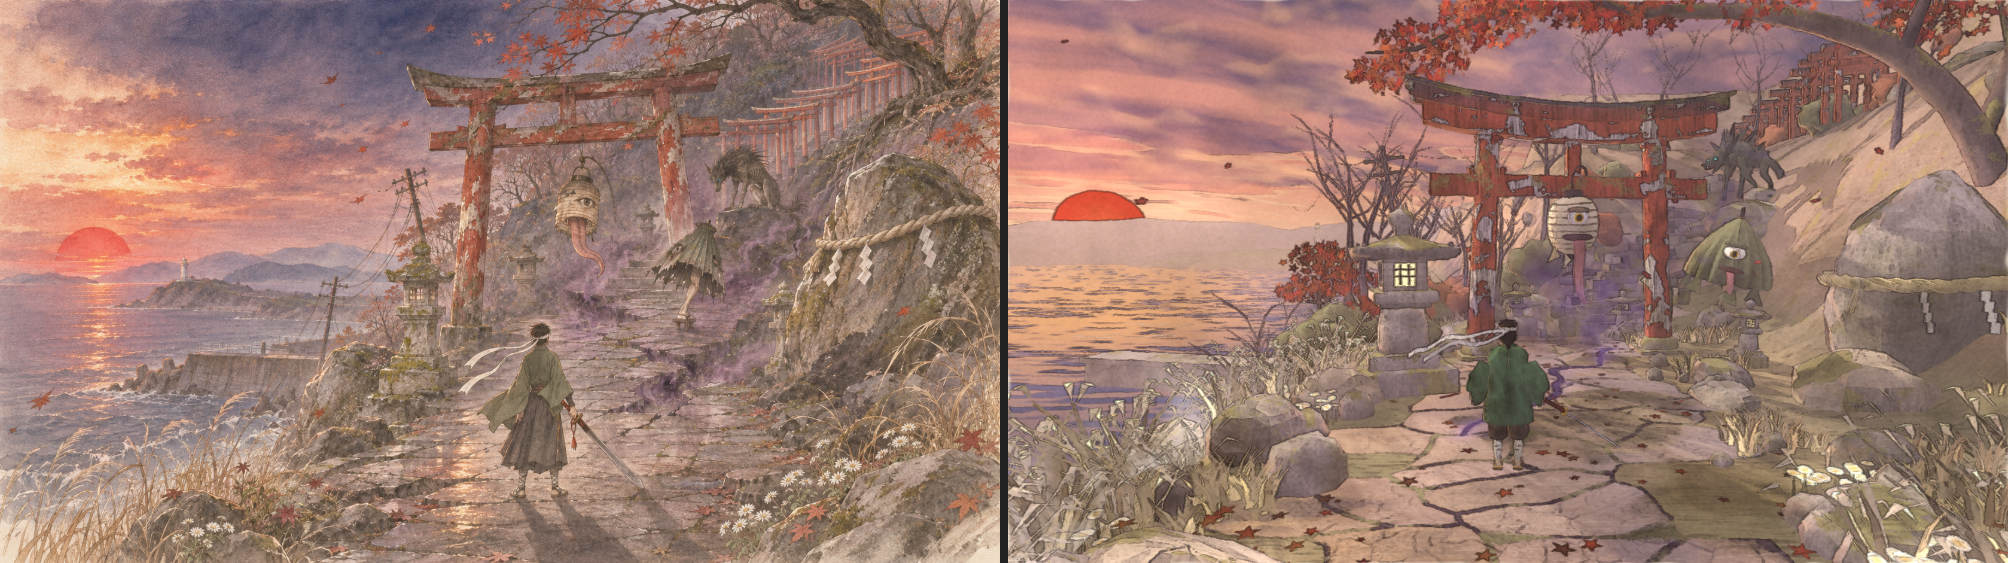
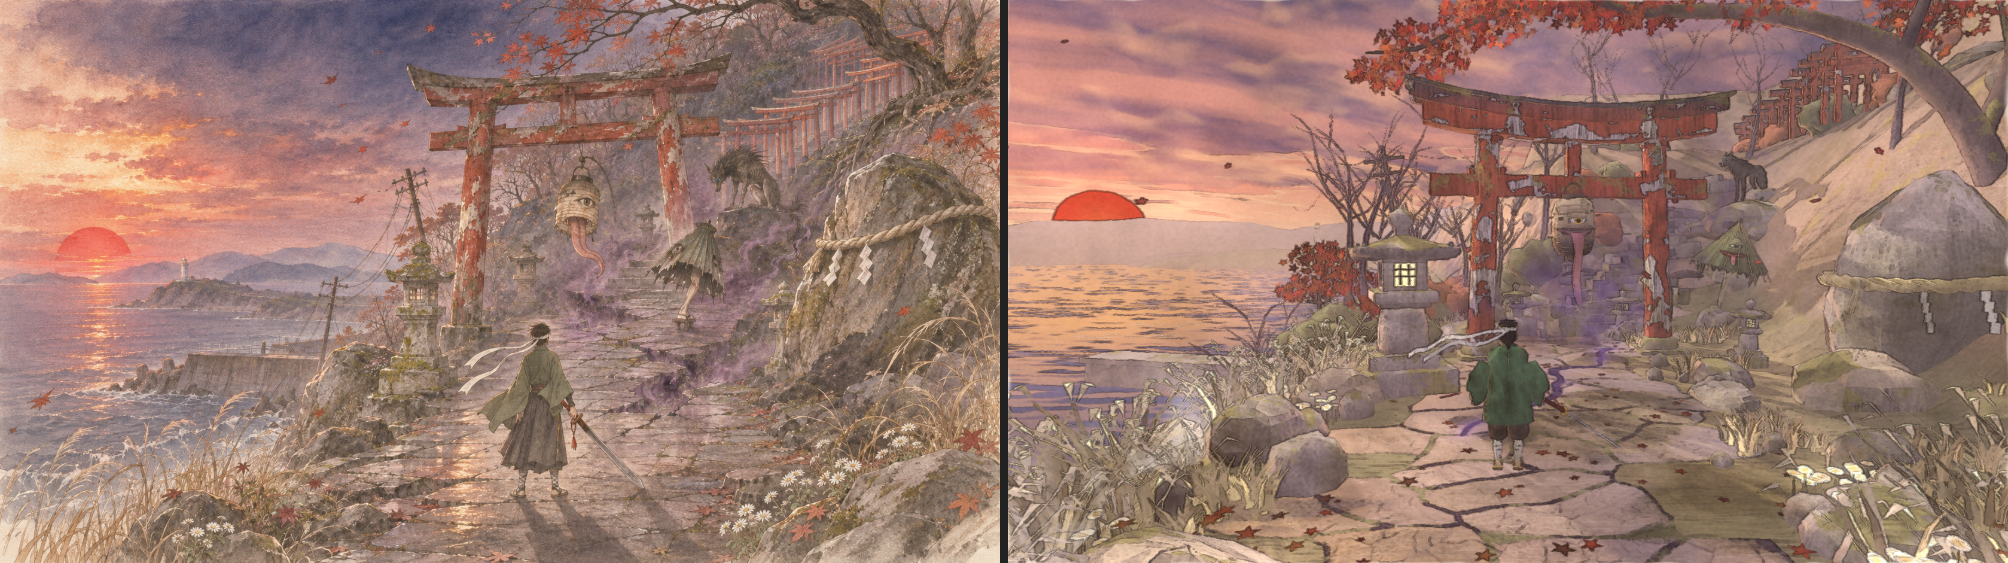
V5: 山犬の作り直し1巡目（痩せた長い脚の狼、乱れたたてがみ、牙、光る目、垂れた尾、暗い灰色）。PROGRESS と比較画像
Claude-Session: https://claude.ai/code/session_0145zJV7Xr5fVskPT5oFxfXo

Changed region(s): [[0.8337, 0.3925, 0.9263, 0.6039], [0.8337, 0.2416, 0.9263, 0.3925], [0.7719, 0.3321, 0.8028, 0.4831]]

diff --git a/src/data/lookdev/models.js b/src/data/lookdev/models.js
@@ -617,56 +617,128 @@ export const models = {
       { s: 'tube', r: 0.007, seg: 8, rseg: 4, col: 'ink', path: [[-0.06, 0.1, 0.02], [-0.03, 0.13, 0.09], [0.0, 0.11, 0.15], [0.03, 0.13, 0.09], [0.06, 0.1, 0.02]] },
     ],
   },
-  // ---- 山犬（岩棚の上。頭を下げて唸る。痩せた体・逆立つ毛・光る目） ----
+  // ---- 山犬（穢狗。V5 作り直し。参考：依頼者の画像 11/20）。痩せて脚の長い狼、首と肩のぼさぼさのたてがみ、立った耳、牙をむいた口、青緑に光る目、
+  // 締まった腹、長くふさふさの垂れた尾、暗い灰色にまだらの毛。原点＝四つの足の間の地面、鼻先が +Z ----
   yamainu: {
     parts: [
-      // 体：尻 → 腹 → 胸 → 首 → 頭 → 鼻先まで1本（A=幅、B=高さ）
-      { s: 'loft', seg: 14, n: 34, col: 'wolfLo', col2: 'wolf', jitter: 0.035, jfreq: 7, joct: 3, ao: 1.2,
-        st: [[0, 0.98, -0.8, 0.09, 0.11], [0, 1.0, -0.56, 0.19, 0.23], [0, 1.0, -0.2, 0.185, 0.22], [0, 1.08, 0.2, 0.23, 0.32], [0, 1.13, 0.5, 0.2, 0.28],
-          [0, 1.08, 0.78, 0.145, 0.2], [0, 0.97, 1.02, 0.13, 0.155], [0, 0.89, 1.2, 0.118, 0.125], [0, 0.83, 1.38, 0.07, 0.072], [0, 0.8, 1.57, 0.042, 0.04]] },
-      // 下あご（少し開いて牙が見える）・鼻
-      { s: 'loft', seg: 8, n: 8, col: 'mouth', st: [[0, 0.8, 1.16, 0.075, 0.035], [0, 0.75, 1.34, 0.05, 0.028], [0, 0.73, 1.5, 0.03, 0.02]] },
-      { s: 'cyl', r: [0.012, 0.0], h: 0.05, seg: 4, at: [0.035, 0.775, 1.47], rot: [180, 0, 0], col: 'paperWhite' },
-      { s: 'cyl', r: [0.012, 0.0], h: 0.05, seg: 4, at: [-0.035, 0.775, 1.47], rot: [180, 0, 0], col: 'paperWhite' },
-      { s: 'sph', r: [0.035, 0.03, 0.03], seg: 6, at: [0, 0.815, 1.59], col: 'ink' },
-      // 耳（後ろへ寝かせる）
-      { s: 'cyl', r: [0.06, 0.0], h: 0.24, seg: 4, at: [0.1, 0.98, 1.08], rot: [-48, 0, -22], col: 'wolfLo' },
-      { s: 'cyl', r: [0.06, 0.0], h: 0.24, seg: 4, at: [-0.1, 0.98, 1.08], rot: [-48, 0, 22], col: 'wolfLo' },
-      // 目（青緑に光る）
-      { s: 'sph', r: [0.042, 0.028, 0.045], seg: 6, at: [0.095, 0.93, 1.27], rot: [0, 20, 0], col: 'eyeCyan', fx: [0, 0, 0, 1] },
-      { s: 'sph', r: [0.042, 0.028, 0.045], seg: 6, at: [-0.095, 0.93, 1.27], rot: [0, -20, 0], col: 'eyeCyan', fx: [0, 0, 0, 1] },
-      // 前脚（踏ん張る）
-      { s: 'loft', seg: 8, n: 12, col: 'wolf', col2: 'wolfLo', gradUv: true, st: [[0.17, 1.0, 0.46, 0.09, 0.11], [0.19, 0.62, 0.42, 0.06, 0.07], [0.18, 0.28, 0.5, 0.042, 0.045], [0.18, 0.05, 0.56, 0.055, 0.07]] },
-      { s: 'loft', seg: 8, n: 12, col: 'wolf', col2: 'wolfLo', gradUv: true, st: [[-0.17, 1.0, 0.52, 0.09, 0.11], [-0.19, 0.62, 0.5, 0.06, 0.07], [-0.18, 0.28, 0.6, 0.042, 0.045], [-0.18, 0.05, 0.66, 0.055, 0.07]] },
-      // 後脚（膝を曲げ、かかとが高い）
-      { s: 'loft', seg: 8, n: 14, col: 'wolf', col2: 'wolfLo', gradUv: true, st: [[0.16, 0.98, -0.52, 0.11, 0.15], [0.2, 0.62, -0.36, 0.075, 0.09], [0.19, 0.36, -0.66, 0.042, 0.045], [0.19, 0.05, -0.58, 0.055, 0.07]] },
-      { s: 'loft', seg: 8, n: 14, col: 'wolf', col2: 'wolfLo', gradUv: true, st: [[-0.16, 0.98, -0.46, 0.11, 0.15], [-0.2, 0.62, -0.3, 0.075, 0.09], [-0.19, 0.36, -0.6, 0.042, 0.045], [-0.19, 0.05, -0.52, 0.055, 0.07]] },
-      // 尾（下げた毛のふさ）
-      { s: 'loft', seg: 8, n: 12, col: 'wolfLo', col2: 'wolf', jitter: 0.04, jfreq: 8, joct: 3, anim: [1, 0.1, 0], animGrad: [0, 0.3],
-        st: [[0, 1.0, -0.78, 0.06, 0.06], [0.03, 0.86, -1.04, 0.1, 0.1], [0.08, 0.62, -1.24, 0.095, 0.095], [0.1, 0.42, -1.34, 0.015, 0.015]] },
-      // 逆立つ毛：首のまわりのたてがみ → 肩 → 背 → 腰
-      { s: 'cyl', r: [0.09, 0.0], h: 0.42, seg: 4, at: [0, 1.22, 0.86], rot: [-8, 0, 0], col: 'wolf' },
-      { s: 'cyl', r: [0.09, 0.0], h: 0.4, seg: 4, at: [0.12, 1.14, 0.84], rot: [-6, 0, -42], col: 'wolfLo' },
-      { s: 'cyl', r: [0.09, 0.0], h: 0.4, seg: 4, at: [-0.12, 1.14, 0.84], rot: [-6, 0, 42], col: 'wolfLo' },
-      { s: 'cyl', r: [0.08, 0.0], h: 0.34, seg: 4, at: [0.16, 0.98, 0.84], rot: [0, 0, -78], col: 'wolf' },
-      { s: 'cyl', r: [0.08, 0.0], h: 0.34, seg: 4, at: [-0.16, 0.98, 0.84], rot: [0, 0, 78], col: 'wolf' },
-      { s: 'cyl', r: [0.08, 0.0], h: 0.3, seg: 4, at: [0.08, 0.88, 0.9], rot: [0, 0, -140], col: 'wolfLo' },
-      { s: 'cyl', r: [0.08, 0.0], h: 0.3, seg: 4, at: [-0.08, 0.88, 0.9], rot: [0, 0, 140], col: 'wolfLo' },
-      { s: 'cyl', r: [0.1, 0.0], h: 0.5, seg: 4, at: [0, 1.36, 0.6], rot: [-22, 0, 0], col: 'wolfLo' },
-      { s: 'cyl', r: [0.1, 0.0], h: 0.48, seg: 4, at: [0.12, 1.34, 0.5], rot: [-30, 0, -24], col: 'wolf' },
-      { s: 'cyl', r: [0.1, 0.0], h: 0.48, seg: 4, at: [-0.12, 1.34, 0.5], rot: [-30, 0, 24], col: 'wolf' },
-      { s: 'cyl', r: [0.1, 0.0], h: 0.48, seg: 4, at: [0, 1.4, 0.34], rot: [-38, 0, 0], col: 'wolf' },
-      { s: 'cyl', r: [0.09, 0.0], h: 0.44, seg: 4, at: [0.1, 1.36, 0.16], rot: [-46, 0, -16], col: 'wolfLo' },
-      { s: 'cyl', r: [0.09, 0.0], h: 0.44, seg: 4, at: [-0.1, 1.36, 0.16], rot: [-46, 0, 16], col: 'wolfLo' },
-      { s: 'cyl', r: [0.09, 0.0], h: 0.4, seg: 4, at: [0, 1.26, -0.06], rot: [-54, 0, 0], col: 'wolf' },
-      { s: 'cyl', r: [0.08, 0.0], h: 0.36, seg: 4, at: [0.07, 1.2, -0.28], rot: [-60, 0, -12], col: 'wolfLo' },
-      { s: 'cyl', r: [0.08, 0.0], h: 0.36, seg: 4, at: [-0.07, 1.2, -0.28], rot: [-60, 0, 12], col: 'wolfLo' },
-      { s: 'cyl', r: [0.08, 0.0], h: 0.34, seg: 4, at: [0, 1.18, -0.5], rot: [-66, 0, 0], col: 'wolf' },
-      { s: 'cyl', r: [0.07, 0.0], h: 0.3, seg: 4, at: [0, 1.1, -0.7], rot: [-72, 0, 0], col: 'wolfLo' },
-      // 胸と肘の毛
-      { s: 'cyl', r: [0.07, 0.0], h: 0.28, seg: 4, at: [0, 0.82, 0.5], rot: [160, 0, 0], col: 'wolfLo' },
-      { s: 'cyl', r: [0.06, 0.0], h: 0.24, seg: 4, at: [0.2, 0.7, 0.36], rot: [-120, 0, -20], col: 'wolf' },
-      { s: 'cyl', r: [0.06, 0.0], h: 0.24, seg: 4, at: [-0.2, 0.7, 0.42], rot: [-120, 0, 20], col: 'wolf' },
+      // 胴から頭まで1本（尻 → 腰 → 胴 → 胸 → 首 → 頭 → 鼻先）。A＝幅、B＝高さ
+      { s: 'loft', seg: 14, n: 30, col: 'wolfLo', col2: 'wolf', jitter: 0.012, jfreq: 9, joct: 3, ao: 1.0,
+        st: [[0, 0.72, -0.47, 0.12, 0.12], [0, 0.73, -0.25, 0.105, 0.1], [0, 0.71, 0.0, 0.13, 0.14], [0, 0.67, 0.24, 0.15, 0.17], [0, 0.74, 0.4, 0.13, 0.15], [0, 0.84, 0.53, 0.1, 0.11], [0, 0.93, 0.67, 0.09, 0.09], [0, 0.92, 0.77, 0.075, 0.075], [0, 0.87, 0.9, 0.042, 0.04], [0, 0.845, 0.975, 0.018, 0.018]] },
+      // 下あご（開いて牙が見える）・牙・鼻・光る目・立った耳
+      { s: 'loft', seg: 8, n: 8, col: 'wolfLo', st: [[0, 0.85, 0.76, 0.05, 0.022], [0, 0.815, 0.86, 0.036, 0.018], [0, 0.8, 0.935, 0.02, 0.012]] },
+      { s: 'loft', seg: 6, n: 6, col: 'mouth', st: [[0, 0.845, 0.8, 0.035, 0.012], [0, 0.832, 0.88, 0.026, 0.01], [0, 0.828, 0.92, 0.014, 0.006]] },
+      { s: 'cyl', r: [0.009, 0.0], h: 0.035, seg: 4, at: [0.022, 0.85, 0.93], rot: [180, 0, 0], col: 'paperWhite' },
+      { s: 'cyl', r: [0.008, 0.0], h: 0.03, seg: 4, at: [0.022, 0.8, 0.915], col: 'paperWhite' },
+      { s: 'cyl', r: [0.009, 0.0], h: 0.035, seg: 4, at: [-0.022, 0.85, 0.93], rot: [180, 0, 0], col: 'paperWhite' },
+      { s: 'cyl', r: [0.008, 0.0], h: 0.03, seg: 4, at: [-0.022, 0.8, 0.915], col: 'paperWhite' },
+      { s: 'cyl', r: [0.006, 0.0], h: 0.018, seg: 4, at: [0.032, 0.852, 0.95], rot: [180, 0, 0], col: 'paperWhite' },
+      { s: 'cyl', r: [0.006, 0.0], h: 0.018, seg: 4, at: [0.0, 0.852, 0.95], rot: [180, 0, 0], col: 'paperWhite' },
+      { s: 'cyl', r: [0.006, 0.0], h: 0.018, seg: 4, at: [-0.032, 0.852, 0.95], rot: [180, 0, 0], col: 'paperWhite' },
+      { s: 'sph', r: [0.024, 0.02, 0.02], seg: 8, at: [0, 0.858, 0.978], col: 'ink' },
+      { s: 'sph', r: [0.018, 0.012, 0.012], seg: 8, at: [0.048, 0.95, 0.815], col: 'eyeCyan', fx: [0, 0, 0, 0.85] },
+      { s: 'cyl', r: [0.05, 0.0], h: 0.14, seg: 5, at: [0.06, 1.0, 0.68], rot: [-14, 0, -12], scale: [1, 1, 0.55], col: 'wolfLo', col2: 'wolf' },
+      { s: 'sph', r: [0.018, 0.012, 0.012], seg: 8, at: [-0.048, 0.95, 0.815], col: 'eyeCyan', fx: [0, 0, 0, 0.85] },
+      { s: 'cyl', r: [0.05, 0.0], h: 0.14, seg: 5, at: [-0.06, 1.0, 0.68], rot: [-14, 0, 12], scale: [1, 1, 0.55], col: 'wolfLo', col2: 'wolf' },
+      // 脚（細く長い。前は肘から手首、後ろは膝とかかとが後ろへ出る）と足
+      { s: 'loft', seg: 8, n: 12, col: 'wolfLo', col2: 'wolf', jitter: 0.006, jfreq: 10, st: [[0.085, 0.64, 0.28, 0.065, 0.075], [0.085, 0.45, 0.265, 0.045, 0.05], [0.085, 0.25, 0.26, 0.03, 0.034], [0.085, 0.1, 0.27, 0.028, 0.03], [0.085, 0.04, 0.3, 0.03, 0.03]] },
+      { s: 'sph', r: [0.038, 0.024, 0.055], seg: 8, at: [0.085, 0.025, 0.315], col: 'wolfLo' },
+      { s: 'loft', seg: 8, n: 14, col: 'wolfLo', col2: 'wolf', jitter: 0.006, jfreq: 10, st: [[0.089, 0.7, -0.4, 0.075, 0.095], [0.089, 0.5, -0.32, 0.058, 0.072], [0.089, 0.38, -0.36, 0.04, 0.045], [0.089, 0.22, -0.5, 0.03, 0.035], [0.089, 0.1, -0.47, 0.026, 0.03], [0.089, 0.03, -0.44, 0.028, 0.028]] },
+      { s: 'sph', r: [0.036, 0.024, 0.052], seg: 8, at: [0.089, 0.024, -0.415], col: 'wolfLo' },
+      { s: 'loft', seg: 8, n: 12, col: 'wolfLo', col2: 'wolf', jitter: 0.006, jfreq: 10, st: [[-0.085, 0.64, 0.28, 0.065, 0.075], [-0.085, 0.45, 0.265, 0.045, 0.05], [-0.085, 0.25, 0.26, 0.03, 0.034], [-0.085, 0.1, 0.27, 0.028, 0.03], [-0.085, 0.04, 0.3, 0.03, 0.03]] },
+      { s: 'sph', r: [0.038, 0.024, 0.055], seg: 8, at: [-0.085, 0.025, 0.315], col: 'wolfLo' },
+      { s: 'loft', seg: 8, n: 14, col: 'wolfLo', col2: 'wolf', jitter: 0.006, jfreq: 10, st: [[-0.089, 0.7, -0.4, 0.075, 0.095], [-0.089, 0.5, -0.32, 0.058, 0.072], [-0.089, 0.38, -0.36, 0.04, 0.045], [-0.089, 0.22, -0.5, 0.03, 0.035], [-0.089, 0.1, -0.47, 0.026, 0.03], [-0.089, 0.03, -0.44, 0.028, 0.028]] },
+      { s: 'sph', r: [0.036, 0.024, 0.052], seg: 8, at: [-0.089, 0.024, -0.415], col: 'wolfLo' },
+      // 尾（長くふさふさで、後ろへ垂れる。先ほど揺れる）
+      { s: 'loft', seg: 8, n: 14, col: 'wolfLo', col2: 'wolf', jitter: 0.045, jfreq: 12, joct: 3, anim: [1, 0.1, 0], animGrad: [0, 0.35],
+        st: [[0, 0.79, -0.47, 0.045, 0.045], [0, 0.72, -0.57, 0.065, 0.065], [0, 0.52, -0.65, 0.085, 0.08], [0, 0.34, -0.73, 0.065, 0.06], [0, 0.23, -0.79, 0.015, 0.015]] },
+      // たてがみ：頭の後ろから首・肩・胸に、外と後ろへ乱れて伸びる毛の束（先は重さで垂れる。のどの下は垂れ下がる）
+      { s: 'loft', seg: 3, n: 4, col: 'wolfLo', side: [0, 1, 0], st: [[-0.083, 0.935, 0.738, 0.021, 0.006], [-0.145, 0.931, 0.677, 0.017, 0.005], [-0.207, 0.902, 0.617, 0.003, 0.002]] },
+      { s: 'loft', seg: 3, n: 4, col: 'wolf', side: [0, 1, 0], st: [[-0.075, 0.953, 0.701, 0.021, 0.006], [-0.150, 0.991, 0.614, 0.017, 0.005], [-0.224, 0.998, 0.527, 0.003, 0.002]] },
+      { s: 'loft', seg: 3, n: 4, col: 'wolfLo', side: [0, 1, 0], st: [[-0.034, 0.984, 0.714, 0.022, 0.007], [-0.080, 1.013, 0.653, 0.018, 0.006], [-0.127, 0.983, 0.591, 0.003, 0.002]] },
+      { s: 'loft', seg: 3, n: 4, col: 'wolfLo', side: [0, 1, 0], st: [[0.002, 0.990, 0.734, 0.024, 0.007], [0.024, 1.041, 0.672, 0.019, 0.006], [0.045, 1.064, 0.609, 0.003, 0.002]] },
+      { s: 'loft', seg: 3, n: 4, col: 'wolfLo', side: [0, 1, 0], st: [[0.043, 0.980, 0.718, 0.024, 0.007], [0.079, 1.002, 0.659, 0.019, 0.006], [0.114, 1.000, 0.599, 0.003, 0.002]] },
+      { s: 'loft', seg: 3, n: 4, col: 'wolf', side: [0, 1, 0], st: [[0.064, 0.966, 0.717, 0.017, 0.005], [0.118, 0.984, 0.655, 0.014, 0.004], [0.171, 0.948, 0.592, 0.003, 0.002]] },
+      { s: 'loft', seg: 3, n: 4, col: 'wolfLo', side: [0, 1, 0], st: [[0.084, 0.929, 0.731, 0.023, 0.007], [0.167, 0.903, 0.652, 0.018, 0.006], [0.250, 0.818, 0.574, 0.003, 0.002]] },
+      { s: 'loft', seg: 3, n: 4, col: 'wolfLo', side: [0, 1, 0], st: [[-0.095, 0.891, 0.636, 0.016, 0.005], [-0.159, 0.866, 0.574, 0.013, 0.004], [-0.224, 0.801, 0.511, 0.003, 0.002]] },
+      { s: 'loft', seg: 3, n: 4, col: 'wolf', side: [0, 1, 0], st: [[-0.087, 0.922, 0.662, 0.021, 0.006], [-0.170, 0.935, 0.592, 0.017, 0.005], [-0.253, 0.878, 0.521, 0.003, 0.002]] },
+      { s: 'loft', seg: 3, n: 4, col: 'wolfLo', side: [0, 1, 0], st: [[-0.056, 0.954, 0.631, 0.021, 0.006], [-0.084, 0.969, 0.574, 0.017, 0.005], [-0.111, 0.947, 0.517, 0.003, 0.002]] },
+      { s: 'loft', seg: 3, n: 4, col: 'wolfLo', side: [0, 1, 0], st: [[0.015, 0.969, 0.639, 0.024, 0.007], [0.014, 1.011, 0.567, 0.019, 0.006], [0.013, 1.022, 0.496, 0.003, 0.002]] },
+      { s: 'loft', seg: 3, n: 4, col: 'wolfLo', side: [0, 1, 0], st: [[0.035, 0.964, 0.630, 0.022, 0.007], [0.060, 0.984, 0.587, 0.018, 0.006], [0.085, 0.970, 0.543, 0.003, 0.002]] },
+      { s: 'loft', seg: 3, n: 4, col: 'wolf', side: [0, 1, 0], st: [[0.083, 0.929, 0.663, 0.024, 0.007], [0.142, 0.928, 0.606, 0.019, 0.006], [0.201, 0.892, 0.549, 0.003, 0.002]] },
+      { s: 'loft', seg: 3, n: 4, col: 'wolf', side: [0, 1, 0], st: [[0.092, 0.909, 0.641, 0.020, 0.006], [0.175, 0.907, 0.571, 0.016, 0.005], [0.257, 0.873, 0.500, 0.003, 0.002]] },
+      { s: 'loft', seg: 3, n: 4, col: 'wolfLo', side: [0, 1, 0], st: [[-0.104, 0.845, 0.582, 0.020, 0.006], [-0.175, 0.817, 0.525, 0.016, 0.005], [-0.246, 0.746, 0.467, 0.003, 0.002]] },
+      { s: 'loft', seg: 3, n: 4, col: 'wolf', side: [0, 1, 0], st: [[-0.090, 0.895, 0.561, 0.016, 0.005], [-0.152, 0.915, 0.482, 0.013, 0.004], [-0.213, 0.883, 0.404, 0.003, 0.002]] },
+      { s: 'loft', seg: 3, n: 4, col: 'wolfLo', side: [0, 1, 0], st: [[-0.052, 0.928, 0.563, 0.022, 0.006], [-0.087, 0.963, 0.500, 0.017, 0.005], [-0.121, 0.958, 0.437, 0.003, 0.002]] },
+      { s: 'loft', seg: 3, n: 4, col: 'wolfLo', side: [0, 1, 0], st: [[-0.009, 0.940, 0.600, 0.016, 0.005], [-0.026, 0.973, 0.541, 0.013, 0.004], [-0.043, 0.974, 0.482, 0.003, 0.002]] },
+      { s: 'loft', seg: 3, n: 4, col: 'wolf', side: [0, 1, 0], st: [[0.043, 0.932, 0.573, 0.020, 0.006], [0.070, 0.966, 0.521, 0.016, 0.005], [0.097, 0.969, 0.469, 0.003, 0.002]] },
+      { s: 'loft', seg: 3, n: 4, col: 'wolf', side: [0, 1, 0], st: [[0.087, 0.900, 0.582, 0.019, 0.006], [0.127, 0.899, 0.529, 0.015, 0.005], [0.167, 0.861, 0.475, 0.003, 0.002]] },
+      { s: 'loft', seg: 3, n: 4, col: 'wolfLo', side: [0, 1, 0], st: [[0.104, 0.862, 0.585, 0.016, 0.005], [0.151, 0.849, 0.556, 0.013, 0.004], [0.198, 0.810, 0.528, 0.003, 0.002]] },
+      { s: 'loft', seg: 3, n: 4, col: 'wolfLo', side: [0, 1, 0], st: [[-0.123, 0.811, 0.519, 0.020, 0.006], [-0.184, 0.796, 0.473, 0.016, 0.005], [-0.245, 0.759, 0.427, 0.003, 0.002]] },
+      { s: 'loft', seg: 3, n: 4, col: 'wolfLo', side: [0, 1, 0], st: [[-0.110, 0.856, 0.500, 0.023, 0.007], [-0.186, 0.862, 0.442, 0.018, 0.006], [-0.261, 0.824, 0.385, 0.003, 0.002]] },
+      { s: 'loft', seg: 3, n: 4, col: 'wolf', side: [0, 1, 0], st: [[-0.040, 0.905, 0.516, 0.023, 0.007], [-0.067, 0.922, 0.470, 0.019, 0.006], [-0.095, 0.915, 0.423, 0.003, 0.002]] },
+      { s: 'loft', seg: 3, n: 4, col: 'wolfLo', side: [0, 1, 0], st: [[-0.009, 0.910, 0.512, 0.016, 0.005], [-0.025, 0.934, 0.467, 0.013, 0.004], [-0.042, 0.936, 0.422, 0.003, 0.002]] },
+      { s: 'loft', seg: 3, n: 4, col: 'wolfLo', side: [0, 1, 0], st: [[0.072, 0.892, 0.488, 0.025, 0.007], [0.117, 0.919, 0.424, 0.020, 0.006], [0.163, 0.910, 0.359, 0.003, 0.002]] },
+      { s: 'loft', seg: 3, n: 4, col: 'wolfLo', side: [0, 1, 0], st: [[0.104, 0.864, 0.489, 0.026, 0.008], [0.171, 0.880, 0.424, 0.020, 0.006], [0.237, 0.849, 0.360, 0.003, 0.002]] },
+      { s: 'loft', seg: 3, n: 4, col: 'wolfLo', side: [0, 1, 0], st: [[0.122, 0.824, 0.511, 0.024, 0.007], [0.211, 0.797, 0.444, 0.019, 0.006], [0.299, 0.725, 0.378, 0.003, 0.002]] },
+      { s: 'loft', seg: 3, n: 4, col: 'wolfLo', side: [0, 1, 0], st: [[-0.133, 0.774, 0.427, 0.025, 0.008], [-0.187, 0.771, 0.389, 0.020, 0.006], [-0.241, 0.744, 0.352, 0.003, 0.002]] },
+      { s: 'loft', seg: 3, n: 4, col: 'wolf', side: [0, 1, 0], st: [[-0.121, 0.816, 0.422, 0.016, 0.005], [-0.180, 0.812, 0.357, 0.013, 0.004], [-0.238, 0.758, 0.291, 0.003, 0.002]] },
+      { s: 'loft', seg: 3, n: 4, col: 'wolfLo', side: [0, 1, 0], st: [[-0.066, 0.866, 0.434, 0.017, 0.005], [-0.088, 0.899, 0.382, 0.013, 0.004], [-0.110, 0.888, 0.329, 0.003, 0.002]] },
+      { s: 'loft', seg: 3, n: 4, col: 'wolfLo', side: [0, 1, 0], st: [[0.006, 0.880, 0.420, 0.023, 0.007], [0.022, 0.914, 0.328, 0.018, 0.006], [0.038, 0.877, 0.236, 0.003, 0.002]] },
+      { s: 'loft', seg: 3, n: 4, col: 'wolfLo', side: [0, 1, 0], st: [[0.072, 0.863, 0.416, 0.024, 0.007], [0.122, 0.885, 0.368, 0.019, 0.006], [0.173, 0.858, 0.320, 0.003, 0.002]] },
+      { s: 'loft', seg: 3, n: 4, col: 'wolfLo', side: [0, 1, 0], st: [[0.110, 0.832, 0.416, 0.022, 0.007], [0.189, 0.841, 0.347, 0.018, 0.006], [0.267, 0.803, 0.279, 0.003, 0.002]] },
+      { s: 'loft', seg: 3, n: 4, col: 'wolfLo', side: [0, 1, 0], st: [[0.133, 0.768, 0.441, 0.025, 0.008], [0.223, 0.757, 0.359, 0.020, 0.006], [0.313, 0.693, 0.276, 0.003, 0.002]] },
+      { s: 'loft', seg: 3, n: 4, col: 'wolf', side: [0, 1, 0], st: [[-0.147, 0.765, 0.341, 0.023, 0.007], [-0.196, 0.761, 0.302, 0.018, 0.006], [-0.245, 0.721, 0.263, 0.003, 0.002]] },
+      { s: 'loft', seg: 3, n: 4, col: 'wolfLo', side: [0, 1, 0], st: [[-0.113, 0.818, 0.368, 0.024, 0.007], [-0.183, 0.822, 0.312, 0.019, 0.006], [-0.252, 0.772, 0.257, 0.003, 0.002]] },
+      { s: 'loft', seg: 3, n: 4, col: 'wolfLo', side: [0, 1, 0], st: [[-0.062, 0.849, 0.378, 0.026, 0.008], [-0.089, 0.879, 0.307, 0.021, 0.006], [-0.117, 0.865, 0.236, 0.003, 0.002]] },
+      { s: 'loft', seg: 3, n: 4, col: 'wolfLo', side: [0, 1, 0], st: [[0.022, 0.859, 0.366, 0.021, 0.006], [0.042, 0.898, 0.282, 0.017, 0.005], [0.062, 0.880, 0.197, 0.003, 0.002]] },
+      { s: 'loft', seg: 3, n: 4, col: 'wolfLo', side: [0, 1, 0], st: [[0.061, 0.850, 0.377, 0.020, 0.006], [0.099, 0.893, 0.292, 0.016, 0.005], [0.137, 0.907, 0.208, 0.003, 0.002]] },
+      { s: 'loft', seg: 3, n: 4, col: 'wolfLo', side: [0, 1, 0], st: [[0.116, 0.816, 0.372, 0.020, 0.006], [0.184, 0.834, 0.291, 0.016, 0.005], [0.253, 0.788, 0.211, 0.003, 0.002]] },
+      { s: 'loft', seg: 3, n: 4, col: 'wolfLo', side: [0, 1, 0], st: [[0.151, 0.747, 0.351, 0.024, 0.007], [0.211, 0.735, 0.300, 0.020, 0.006], [0.270, 0.701, 0.249, 0.003, 0.002]] },
+      { s: 'loft', seg: 3, n: 4, col: 'wolf', side: [0, 1, 0], st: [[-0.161, 0.710, 0.293, 0.024, 0.007], [-0.210, 0.702, 0.241, 0.019, 0.006], [-0.259, 0.665, 0.190, 0.003, 0.002]] },
+      { s: 'loft', seg: 3, n: 4, col: 'wolfLo', side: [0, 1, 0], st: [[-0.130, 0.795, 0.294, 0.017, 0.005], [-0.172, 0.799, 0.231, 0.014, 0.004], [-0.213, 0.769, 0.167, 0.003, 0.002]] },
+      { s: 'loft', seg: 3, n: 4, col: 'wolfLo', side: [0, 1, 0], st: [[-0.095, 0.824, 0.287, 0.024, 0.007], [-0.129, 0.838, 0.249, 0.019, 0.006], [-0.163, 0.823, 0.211, 0.003, 0.002]] },
+      { s: 'loft', seg: 3, n: 4, col: 'wolfLo', side: [0, 1, 0], st: [[-0.007, 0.850, 0.305, 0.016, 0.005], [-0.011, 0.869, 0.263, 0.013, 0.004], [-0.014, 0.864, 0.220, 0.003, 0.002]] },
+      { s: 'loft', seg: 3, n: 4, col: 'wolfLo', side: [0, 1, 0], st: [[0.090, 0.827, 0.299, 0.020, 0.006], [0.121, 0.868, 0.241, 0.016, 0.005], [0.151, 0.887, 0.183, 0.003, 0.002]] },
+      { s: 'loft', seg: 3, n: 4, col: 'wolfLo', side: [0, 1, 0], st: [[0.130, 0.795, 0.278, 0.025, 0.008], [0.186, 0.804, 0.222, 0.020, 0.006], [0.243, 0.768, 0.166, 0.003, 0.002]] },
+      { s: 'loft', seg: 3, n: 4, col: 'wolfLo', side: [0, 1, 0], st: [[0.160, 0.731, 0.297, 0.025, 0.008], [0.225, 0.740, 0.232, 0.020, 0.006], [0.289, 0.726, 0.168, 0.003, 0.002]] },
+      { s: 'loft', seg: 3, n: 4, col: 'wolf', side: [0, 1, 0], st: [[-0.150, 0.733, 0.204, 0.025, 0.008], [-0.221, 0.734, 0.143, 0.020, 0.006], [-0.291, 0.691, 0.081, 0.003, 0.002]] },
+      { s: 'loft', seg: 3, n: 4, col: 'wolf', side: [0, 1, 0], st: [[-0.136, 0.770, 0.212, 0.022, 0.007], [-0.195, 0.777, 0.168, 0.018, 0.006], [-0.253, 0.749, 0.125, 0.003, 0.002]] },
+      { s: 'loft', seg: 3, n: 4, col: 'wolfLo', side: [0, 1, 0], st: [[-0.077, 0.823, 0.230, 0.016, 0.005], [-0.096, 0.840, 0.193, 0.013, 0.004], [-0.116, 0.839, 0.156, 0.003, 0.002]] },
+      { s: 'loft', seg: 3, n: 4, col: 'wolfLo', side: [0, 1, 0], st: [[0.003, 0.840, 0.235, 0.024, 0.007], [0.003, 0.873, 0.187, 0.019, 0.006], [0.003, 0.889, 0.139, 0.003, 0.002]] },
+      { s: 'loft', seg: 3, n: 4, col: 'wolf', side: [0, 1, 0], st: [[0.054, 0.832, 0.224, 0.018, 0.006], [0.070, 0.885, 0.165, 0.015, 0.005], [0.087, 0.912, 0.105, 0.003, 0.002]] },
+      { s: 'loft', seg: 3, n: 4, col: 'wolfLo', side: [0, 1, 0], st: [[0.128, 0.782, 0.210, 0.021, 0.006], [0.165, 0.776, 0.177, 0.017, 0.005], [0.203, 0.741, 0.143, 0.003, 0.002]] },
+      { s: 'loft', seg: 3, n: 4, col: 'wolfLo', side: [0, 1, 0], st: [[0.152, 0.715, 0.230, 0.024, 0.007], [0.214, 0.708, 0.184, 0.020, 0.006], [0.276, 0.682, 0.139, 0.003, 0.002]] },
+      { s: 'loft', seg: 3, n: 4, col: 'wolfLo', side: [0, 1, 0], st: [[-0.139, 0.749, 0.154, 0.025, 0.007], [-0.175, 0.743, 0.115, 0.020, 0.006], [-0.210, 0.719, 0.075, 0.003, 0.002]] },
+      { s: 'loft', seg: 3, n: 4, col: 'wolf', side: [0, 1, 0], st: [[-0.123, 0.782, 0.134, 0.021, 0.006], [-0.179, 0.785, 0.077, 0.016, 0.005], [-0.236, 0.746, 0.020, 0.003, 0.002]] },
+      { s: 'loft', seg: 3, n: 4, col: 'wolfLo', side: [0, 1, 0], st: [[-0.080, 0.820, 0.153, 0.016, 0.005], [-0.129, 0.849, 0.090, 0.013, 0.004], [-0.177, 0.832, 0.027, 0.003, 0.002]] },
+      { s: 'loft', seg: 3, n: 4, col: 'wolf', side: [0, 1, 0], st: [[0.011, 0.840, 0.164, 0.021, 0.006], [0.020, 0.857, 0.134, 0.017, 0.005], [0.028, 0.853, 0.105, 0.003, 0.002]] },
+      { s: 'loft', seg: 3, n: 4, col: 'wolfLo', side: [0, 1, 0], st: [[0.065, 0.827, 0.139, 0.025, 0.007], [0.085, 0.840, 0.110, 0.020, 0.006], [0.104, 0.834, 0.080, 0.003, 0.002]] },
+      { s: 'loft', seg: 3, n: 4, col: 'wolfLo', side: [0, 1, 0], st: [[0.114, 0.794, 0.149, 0.021, 0.006], [0.163, 0.787, 0.103, 0.017, 0.005], [0.213, 0.743, 0.056, 0.003, 0.002]] },
+      { s: 'loft', seg: 3, n: 4, col: 'wolfLo', side: [0, 1, 0], st: [[0.142, 0.736, 0.138, 0.017, 0.005], [0.217, 0.736, 0.093, 0.014, 0.004], [0.293, 0.691, 0.047, 0.003, 0.002]] },
+      { s: 'loft', seg: 3, n: 4, col: 'wolfLo', side: [0, 1, 0], st: [[-0.050, 0.780, 0.620, 0.020, 0.006], [-0.055, 0.736, 0.606, 0.016, 0.005], [-0.059, 0.687, 0.592, 0.003, 0.002]] },
+      { s: 'loft', seg: 3, n: 4, col: 'wolfLo', side: [0, 1, 0], st: [[-0.017, 0.780, 0.620, 0.020, 0.006], [-0.019, 0.734, 0.606, 0.016, 0.005], [-0.020, 0.685, 0.591, 0.003, 0.002]] },
+      { s: 'loft', seg: 3, n: 4, col: 'wolfLo', side: [0, 1, 0], st: [[0.017, 0.780, 0.620, 0.020, 0.006], [0.019, 0.720, 0.601, 0.016, 0.005], [0.021, 0.655, 0.583, 0.003, 0.002]] },
+      { s: 'loft', seg: 3, n: 4, col: 'wolfLo', side: [0, 1, 0], st: [[0.050, 0.780, 0.620, 0.020, 0.006], [0.056, 0.724, 0.603, 0.016, 0.005], [0.062, 0.664, 0.585, 0.003, 0.002]] },
+      { s: 'loft', seg: 3, n: 4, col: 'wolfLo', side: [0, 1, 0], st: [[-0.050, 0.720, 0.550, 0.020, 0.006], [-0.054, 0.679, 0.537, 0.016, 0.005], [-0.059, 0.634, 0.524, 0.003, 0.002]] },
+      { s: 'loft', seg: 3, n: 4, col: 'wolfLo', side: [0, 1, 0], st: [[-0.017, 0.720, 0.550, 0.020, 0.006], [-0.019, 0.668, 0.534, 0.016, 0.005], [-0.021, 0.611, 0.517, 0.003, 0.002]] },
+      { s: 'loft', seg: 3, n: 4, col: 'wolfLo', side: [0, 1, 0], st: [[0.017, 0.720, 0.550, 0.020, 0.006], [0.019, 0.651, 0.528, 0.016, 0.005], [0.022, 0.576, 0.507, 0.003, 0.002]] },
+      { s: 'loft', seg: 3, n: 4, col: 'wolfLo', side: [0, 1, 0], st: [[0.050, 0.720, 0.550, 0.020, 0.006], [0.057, 0.655, 0.530, 0.016, 0.005], [0.064, 0.584, 0.509, 0.003, 0.002]] },
+      { s: 'loft', seg: 3, n: 4, col: 'wolfLo', side: [0, 1, 0], st: [[-0.050, 0.650, 0.470, 0.020, 0.006], [-0.054, 0.609, 0.457, 0.016, 0.005], [-0.058, 0.565, 0.445, 0.003, 0.002]] },
+      { s: 'loft', seg: 3, n: 4, col: 'wolfLo', side: [0, 1, 0], st: [[-0.017, 0.650, 0.470, 0.020, 0.006], [-0.018, 0.611, 0.458, 0.016, 0.005], [-0.020, 0.570, 0.446, 0.003, 0.002]] },
+      { s: 'loft', seg: 3, n: 4, col: 'wolf', side: [0, 1, 0], st: [[0.017, 0.650, 0.470, 0.020, 0.006], [0.018, 0.610, 0.458, 0.016, 0.005], [0.020, 0.567, 0.445, 0.003, 0.002]] },
+      { s: 'loft', seg: 3, n: 4, col: 'wolfLo', side: [0, 1, 0], st: [[0.050, 0.650, 0.470, 0.020, 0.006], [0.054, 0.611, 0.458, 0.016, 0.005], [0.058, 0.568, 0.445, 0.003, 0.002]] },
+      { s: 'loft', seg: 3, n: 4, col: 'wolf', side: [0, 1, 0], st: [[-0.050, 0.600, 0.400, 0.020, 0.006], [-0.056, 0.538, 0.381, 0.016, 0.005], [-0.063, 0.471, 0.361, 0.003, 0.002]] },
+      { s: 'loft', seg: 3, n: 4, col: 'wolf', side: [0, 1, 0], st: [[-0.017, 0.600, 0.400, 0.020, 0.006], [-0.019, 0.545, 0.383, 0.016, 0.005], [-0.021, 0.486, 0.366, 0.003, 0.002]] },
+      { s: 'loft', seg: 3, n: 4, col: 'wolfLo', side: [0, 1, 0], st: [[0.017, 0.600, 0.400, 0.020, 0.006], [0.019, 0.536, 0.380, 0.016, 0.005], [0.022, 0.466, 0.360, 0.003, 0.002]] },
+      { s: 'loft', seg: 3, n: 4, col: 'wolfLo', side: [0, 1, 0], st: [[0.050, 0.600, 0.400, 0.020, 0.006], [0.055, 0.553, 0.385, 0.016, 0.005], [0.060, 0.501, 0.370, 0.003, 0.002]] },
+      { s: 'loft', seg: 3, n: 4, col: 'wolfLo', side: [0, 1, 0], st: [[-0.050, 0.550, 0.330, 0.020, 0.006], [-0.054, 0.511, 0.318, 0.016, 0.005], [-0.058, 0.470, 0.306, 0.003, 0.002]] },
+      { s: 'loft', seg: 3, n: 4, col: 'wolfLo', side: [0, 1, 0], st: [[-0.017, 0.550, 0.330, 0.020, 0.006], [-0.019, 0.505, 0.316, 0.016, 0.005], [-0.020, 0.456, 0.302, 0.003, 0.002]] },
+      { s: 'loft', seg: 3, n: 4, col: 'wolfLo', side: [0, 1, 0], st: [[0.017, 0.550, 0.330, 0.020, 0.006], [0.020, 0.478, 0.308, 0.016, 0.005], [0.022, 0.400, 0.285, 0.003, 0.002]] },
+      { s: 'loft', seg: 3, n: 4, col: 'wolf', side: [0, 1, 0], st: [[0.050, 0.550, 0.330, 0.020, 0.006], [0.057, 0.483, 0.309, 0.016, 0.005], [0.064, 0.411, 0.288, 0.003, 0.002]] },
+      { s: 'loft', seg: 3, n: 4, col: 'wolf', side: [0, 1, 0], st: [[-0.050, 0.520, 0.260, 0.020, 0.006], [-0.057, 0.453, 0.239, 0.016, 0.005], [-0.064, 0.380, 0.218, 0.003, 0.002]] },
+      { s: 'loft', seg: 3, n: 4, col: 'wolfLo', side: [0, 1, 0], st: [[-0.017, 0.520, 0.260, 0.020, 0.006], [-0.019, 0.473, 0.245, 0.016, 0.005], [-0.020, 0.421, 0.230, 0.003, 0.002]] },
+      { s: 'loft', seg: 3, n: 4, col: 'wolfLo', side: [0, 1, 0], st: [[0.017, 0.520, 0.260, 0.020, 0.006], [0.019, 0.465, 0.243, 0.016, 0.005], [0.021, 0.404, 0.225, 0.003, 0.002]] },
+      { s: 'loft', seg: 3, n: 4, col: 'wolf', side: [0, 1, 0], st: [[0.050, 0.520, 0.260, 0.020, 0.006], [0.057, 0.452, 0.239, 0.016, 0.005], [0.064, 0.379, 0.218, 0.003, 0.002]] },
     ],
   },
 };

diff --git a/src/data/lookdev/scene.js b/src/data/lookdev/scene.js
@@ -98,8 +98,8 @@ export const scene = {
     kasaSkin: '#ddcfba',
     kasaLo: '#4f5640',
     getaWood: '#7a5f4c',
-    wolf: '#6e7064',
-    wolfLo: '#45484a',
+    wolf: '#5e5d5c',
+    wolfLo: '#363536',
     eyeCyan: '#8ff4e2',
     lampGlow: '#f6dfa6',
   },
@@ -425,6 +425,7 @@ export const scene = {
       lanternBig: { all: [1.5, 2.35], top: [2.45, 1.5] },
       chochin: { all: [1.7, 2.2], face: [2.15, 0.6] },
       karakasa: { all: [1.2, 1.8], face: [1.7, 0.45] },
+      yamainu: { all: [0.55, 1.15], head: [0.9, 0.35] },
       iwakura: { all: [2.1, 3.6], rope: [2.5, 1.6] },
       rockA: { all: [0.35, 1.1] },
       rockB: { all: [0.35, 0.95] },
